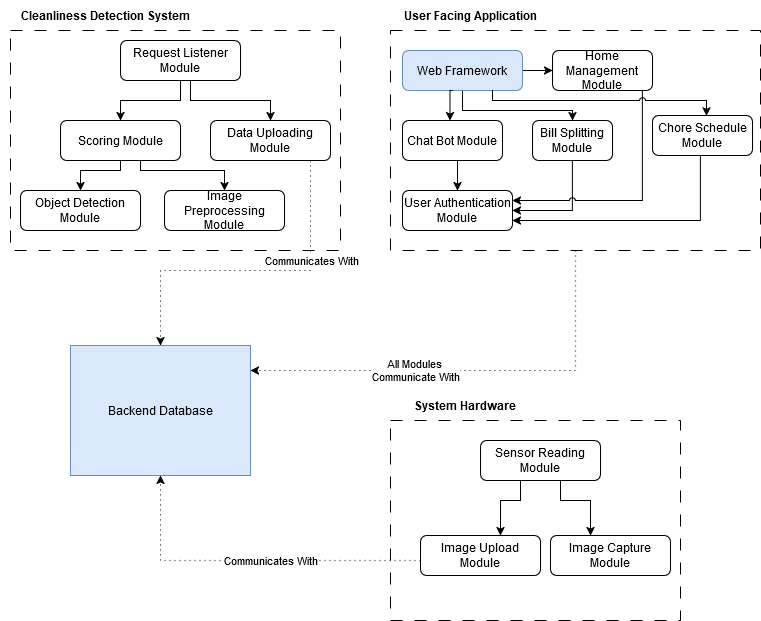
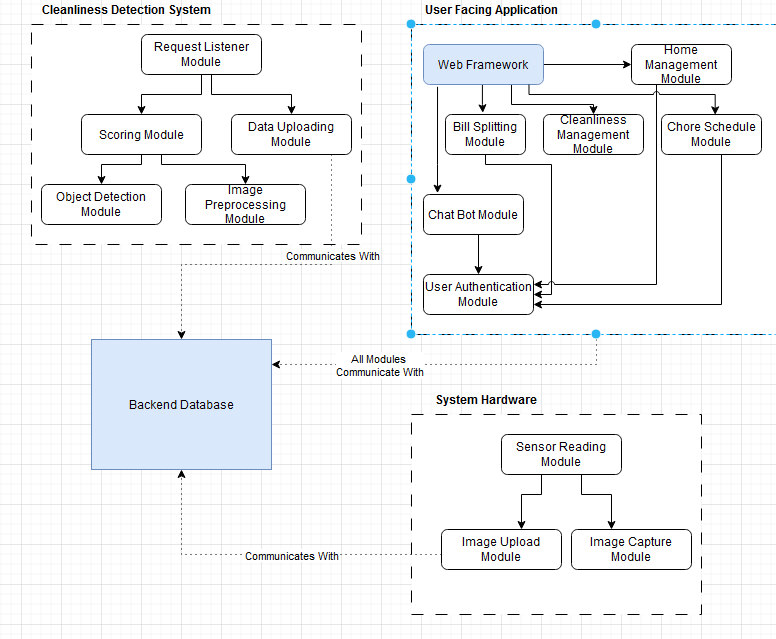
Finishing touches

diff --git a/docs/Design/SoftDetailedDes/MIS.tex b/docs/Design/SoftDetailedDes/MIS.tex
@@ -53,7 +53,7 @@ urlcolor=cyan          % color of external links
 \begin{tabularx}{\textwidth}{p{3cm}p{2cm}p{4cm}X}
 \toprule {\bf Date} & {\bf Version} & {\bf Members} & {\bf Notes}\\
 \midrule
-2025-01-17 & 1.0 & Team &Initial creation\\
+2025-01-17 & 0.0 & Team & Initial creation\\
 \bottomrule
 \end{tabularx}
 
@@ -1023,7 +1023,7 @@ graduate attribute of Problem Analysis and Design.
   Almost all decisions stemmed from speaking to client(s) or a proxy. Our proxy for design decisions related to the cleanliness management system and all related systems is Dr. Tharmarasa, an expert in computer vision and object detection. Decisions related to the features of the client-facing application come from discussions with students in shared-living situations which are abundant at McMaster University.
   \item \textbf{While creating the design doc, what parts of your other documents (e.g.
   requirements, hazard analysis, etc), it any, needed to be changed, and why?}\\
-  No other documents were altered while working on the MG and MIS. Before working on this document, previous documents were modified to align with each other and to resolve issues raised by supervisors and peers. This made it easy to ensure development of the MG, and MIS caused no conflicts with prior documents. 
+  The SRS was modified to remove requirements that involved recording the individual cleanliness score of a user. 
   \item \textbf{What are the limitations of your solution?  Put another way, given
   unlimited resources, what could you do to make the project better?} (LO\_ProbSolutions)\\
   Current limitations in the solution include limitations in the detection ability of the cleanliness detection algorithm. As of writing, this module is implemented using pre-trained object detection models and focuses on detecting differences in the state, leaving the users to determine whether or not the state of the room has improved or worsened. This is due to a lack of time and expertise in implementing a custom AI model for this use case. Given unlimited time and resources, a dedicated artificial intelligence and object detection model specializing in detecting "messes" would be built to reduce manual effort from the user and improve the system's accuracy.\\\\

diff --git a/docs/Design/SoftArchitecture/MG.tex b/docs/Design/SoftArchitecture/MG.tex
@@ -47,7 +47,7 @@
 \begin{tabularx}{\textwidth}{p{3cm}p{2cm}p{4cm}X}
 \toprule {\bf Date} & {\bf Version} & {\bf Members} & {\bf Notes}\\
 \midrule
-2025-01-17 & 1.0 & Team & Initial creation\\
+2025-01-17 & 0.0 & Team & Initial creation\\
 \bottomrule
 \end{tabularx}
 
@@ -438,7 +438,8 @@ requirements and between the modules and the anticipated changes.
 \mref{mCB} & FR221-224, NFR221-222\\
 \mref{mBS} & FR251-255, NFR251-252\\
 \mref{mUA} & FR211-213, NFR211-212, NFR214 \\
-\mref{mHM} & FR214-218, FR234-235, NFR213 \\
+\mref{mHM} & FR214-218, NFR213 \\
+\mref{mCM} & FR234 \\
 
 \bottomrule
 \end{tabular}
@@ -456,9 +457,10 @@ requirements and between the modules and the anticipated changes.
 \acref{acHardware} & \mref{mSR}, \mref{mIC}, \mref{mIU} \\
 \acref{acSensor} & \mref{mSR} \\
 \acref{acCaptureCriteria} & \mref{mIC} \\
-\acref{acAlgoOutput} & \mref{mS}, \mref{mIU}, \mref{mHM} \\
-\acref{acWebFrameworks} & \mref{mCS}, \mref{mCB}, \mref{mBS}, \mref{mUA}, \mref{mHM} \\
-\acref{acAppFeatures} & \mref{mCS}, \mref{mCB}, \mref{mBS}, \mref{mUA}, \mref{mHM} \\
+\acref{acAlgoOutput} & \mref{mS}, \mref{mIU}, \mref{mHM}, \mref{mCM} \\
+\acref{acWebFrameworks} & \mref{mCS}, \mref{mCB}, \mref{mBS}, \mref{mUA}, \mref{mHM}, \mref{mCM} \\
+\acref{acAppFeatures} & \mref{mCS}, \mref{mCB}, \mref{mBS}, \mref{mUA}, \mref{mHM}, \mref{mCM} \\
+
 \bottomrule
 \end{tabular}
 \caption{Trace Between Anticipated Changes and Modules}
@@ -556,9 +558,6 @@ User interface of the home management, authentication, splash, and dashboard pag
 \end{itemize}
 \end{itemize}
 
-\wss{Schedule of tasks and who is responsible}
-
-\wss{You can point to GitHub if this information is included there}
 
 \bibliographystyle {plainnat}
 \bibliography{../../../refs/References}

diff --git a/docs/SRS/SRS.tex b/docs/SRS/SRS.tex
@@ -529,8 +529,7 @@ Invariants are properties of the environment that the system must maintain throu
             \item \textbf{FR231:} The system shall evaluate the cleanliness of the shared living space before and after a user enters and exits the space.
   			\item \textbf{FR232:} The system shall display the current cleanliness score of the shared living space.
             \item \textbf{FR233:} The system shall display the detected messes in the shared living space.
-            \item \textbf{FR234:} The system shall allow users to view the cleanliness score of other users.
-            \item \textbf{FR235:} The system shall allow users to view the history of cleanliness scores and detected messes.
+            \item \textbf{FR234:} The system shall allow users to view the history of cleanliness scores and detected messes.
         \end{itemize}
         \item \textbf{Non-Functional Requirements:}
         \begin{itemize}
